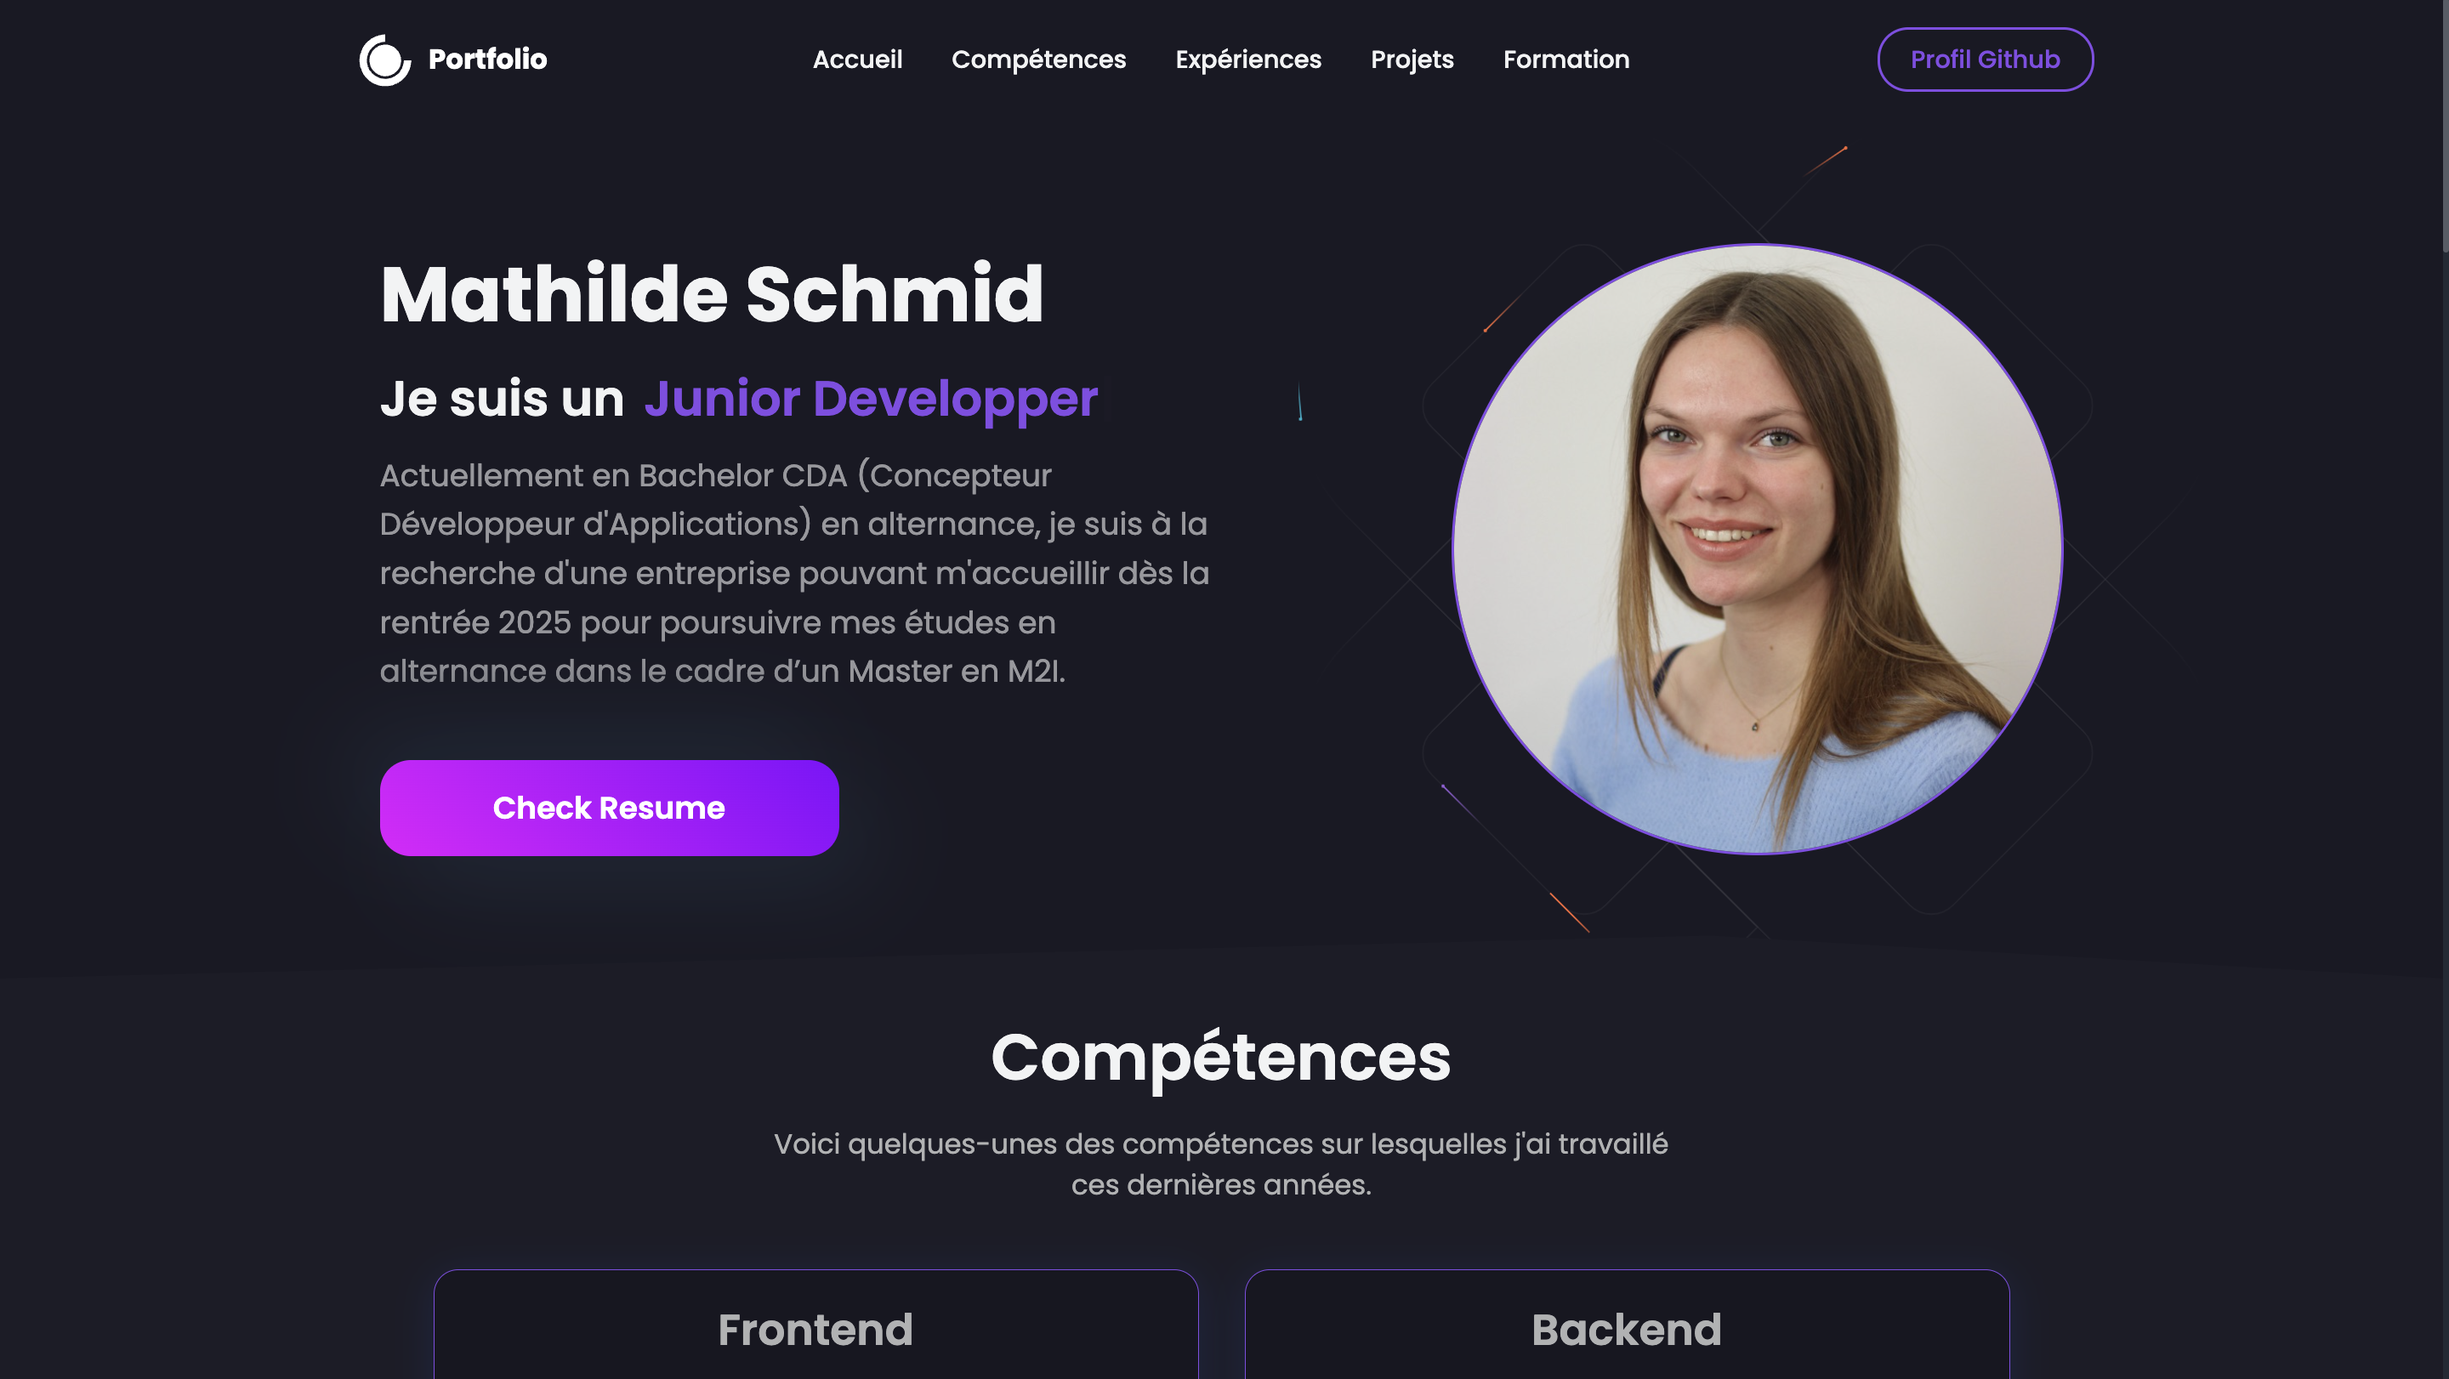
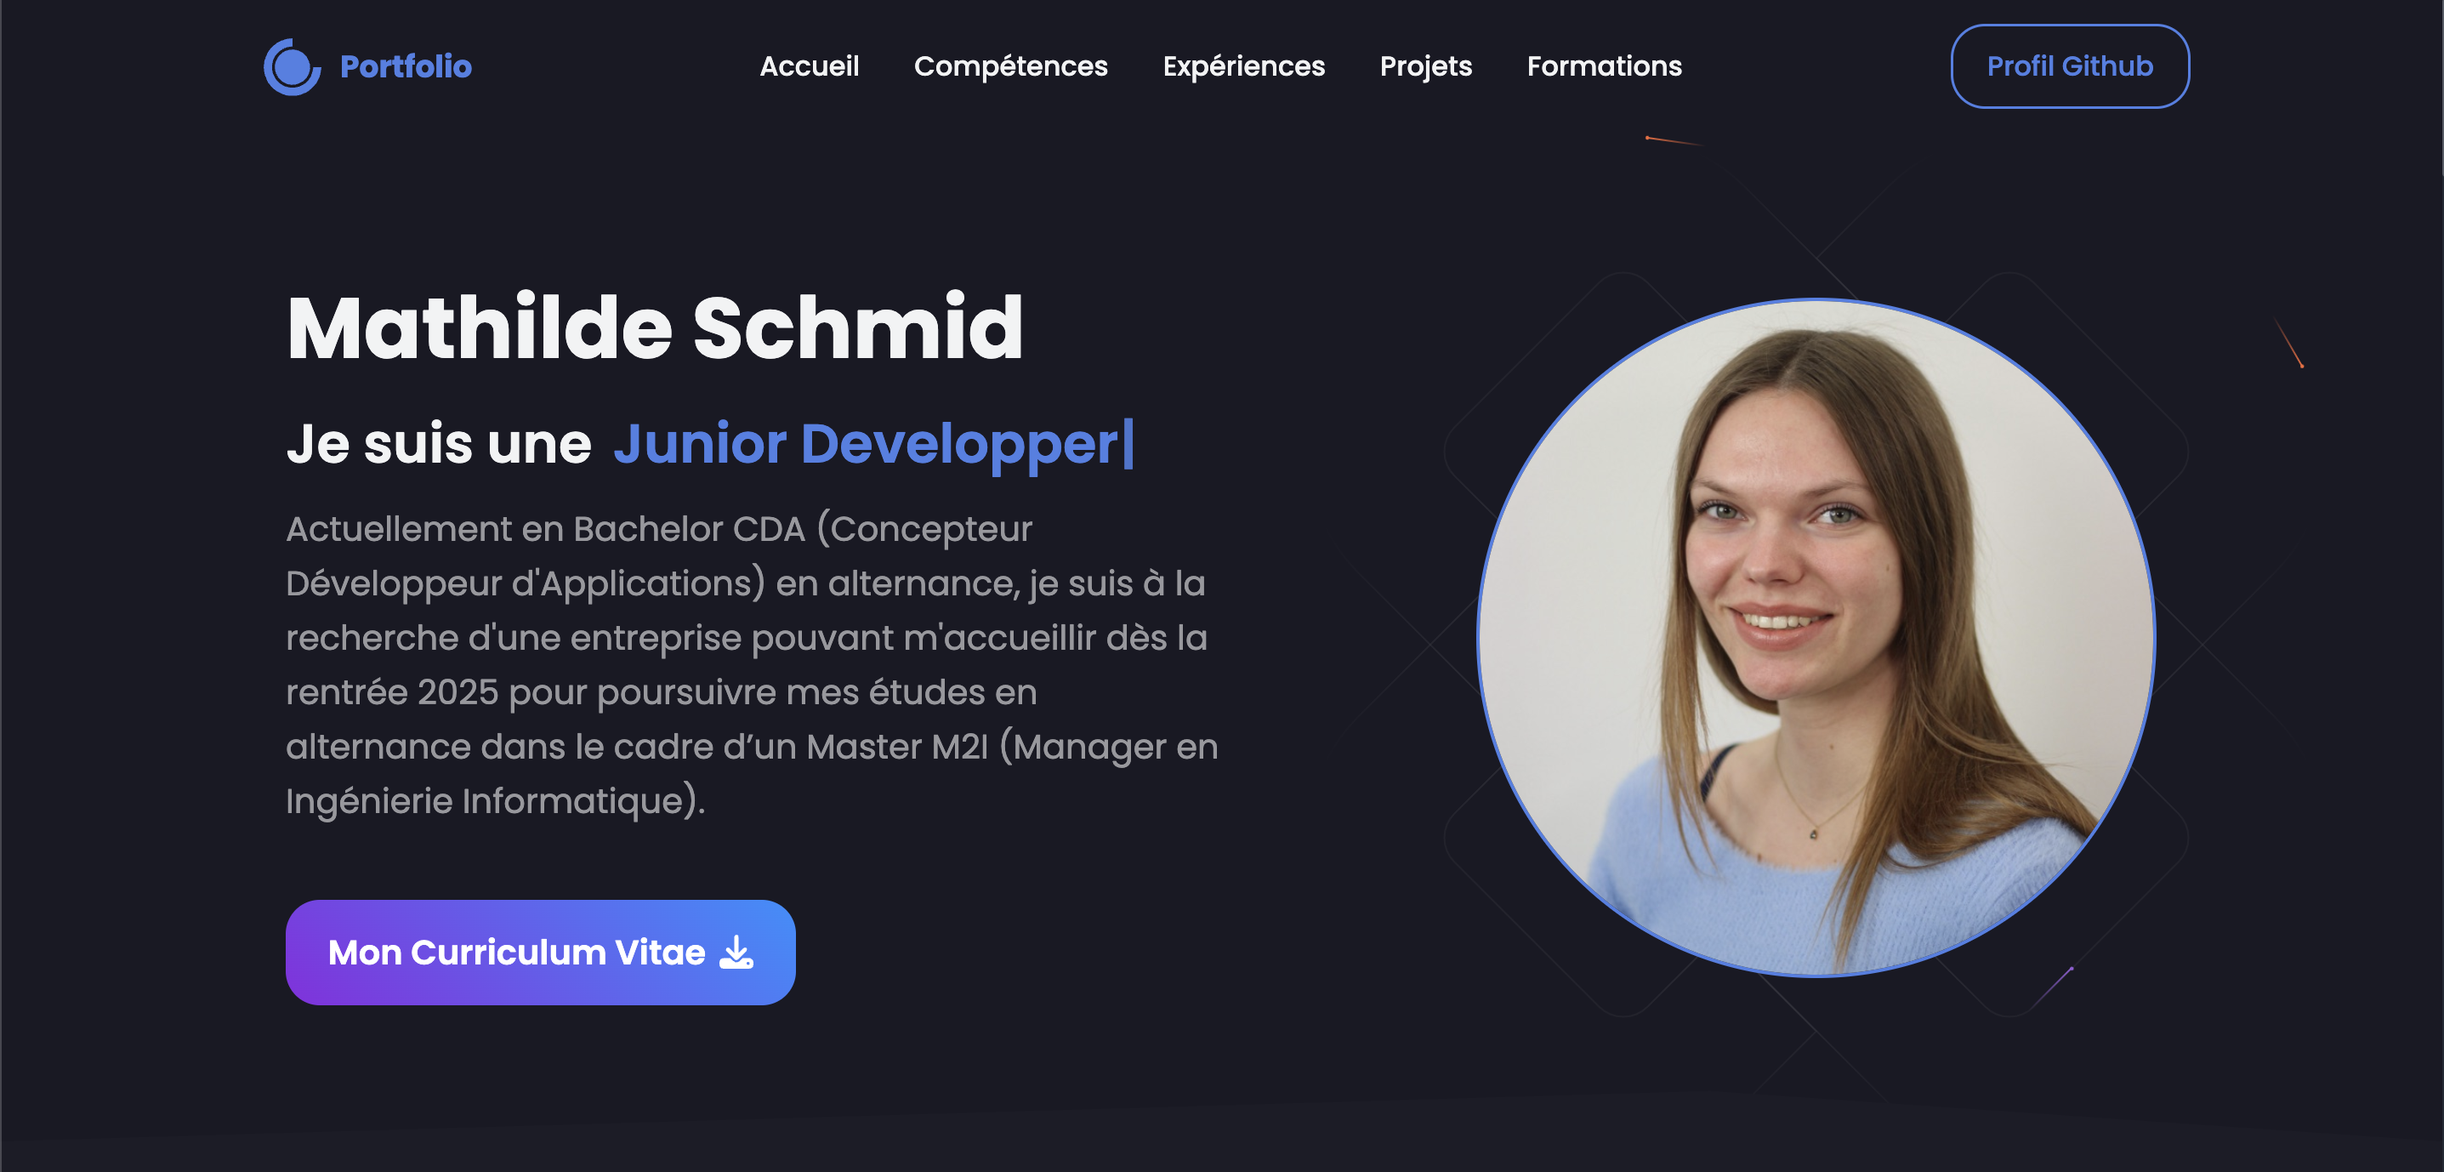
Finalisation Portfolio

diff --git a/src/data/constants.js b/src/data/constants.js
@@ -1,5 +1,7 @@
 import MiamzelleImage from "../components/images/Miam-Zelle-Recette.png";
 import PortfolioImage from "../components/images/Portfolio.png";
+import StradaStaImage from "../components/images/StradSTA.png";
+import ProjetCsharpImage from "../components/images/ProjetC#.png";
 
 export const Bio = {
   name: "Mathilde Schmid",
@@ -10,11 +12,10 @@ export const Bio = {
     "QA Tester",
   ],
   description:
-    // "I am a motivated and versatile individual, always eager to take on new challenges. With a passion for learning I am dedicated to delivering high-quality results. With a positive attitude and a growth mindset, I am ready to make a meaningful contribution and achieve great things.",
-    "Actuellement en Bachelor CDA (Concepteur Développeur d'Applications) en alternance, je suis à la recherche d'une entreprise pouvant m'accueillir dès la rentrée 2025 pour poursuivre mes études en alternance dans le cadre d’un Master en M2I.",
+    "Actuellement en Bachelor CDA (Concepteur Développeur d'Applications) en alternance, je suis à la recherche d'une entreprise pouvant m'accueillir dès la rentrée 2025 pour poursuivre mes études en alternance dans le cadre d’un Master M2I (Manager en Ingénierie Informatique).",
   github: "https://github.com/mAthilde43",
   resume: "mettre CV",
-  // linkedin: "https://www.linkedin.com/in/rishav-chanda-b89a791b3/",
+  // linkedin: "",
 };
 
 export const skills = [
@@ -31,11 +32,16 @@ export const skills = [
         image:
           "https://d33wubrfki0l68.cloudfront.net/0834d0215db51e91525a25acf97433051f280f2f/c30f5/img/redux.svg",
       },
-      // {
-      //   name: "Next Js",
-      //   image:
[1 lines of base64/hex data omitted]
-      // },
+      {
+        name: "C#",
+        image:
+          "https://upload.wikimedia.org/wikipedia/commons/thumb/b/bd/Logo_C_sharp.svg/1820px-Logo_C_sharp.svg.png",
+      },
+      {
+        name: "TypeScript",
+        image:
+          "https://upload.wikimedia.org/wikipedia/commons/thumb/4/4c/Typescript_logo_2020.svg/1200px-Typescript_logo_2020.svg.png",
+      },
       {
         name: "JavaScript",
         image:
@@ -105,11 +111,6 @@ export const skills = [
         image:
           "https://raw.githubusercontent.com/devicons/devicon/master/icons/docker/docker-original-wordmark.svg",
       },
-      // {
-      //   name: "Netlify",
-      //   image:
-      //     "https://seeklogo.com/images/N/netlify-logo-BD8F8A77E2-seeklogo.com.png",
-      // },
       {
         name: "VS Code",
         image: "https://chris-ayers.com/assets/images/vscode-logo.png",
@@ -126,7 +127,7 @@ export const skills = [
       {
         name: "WordPress",
         image:
-          "https://download.logo.wine/logo/WordPress.com/WordPress.com-Logo.wine.png",
+          "https://icones.pro/wp-content/uploads/2022/05/logo-wordpress.png",
       },
     ],
   },
@@ -142,7 +143,7 @@ export const experiences = [
     desc: [
       "Réalisation de tests sur l’application web et mobile pour assurer la qualité et la stabilité des fonctionnalités.",
       "Automatisation des tests en utilisant Cypress afin d’optimiser le processus de validation et de détecter rapidement les anomalies.",
-      "Modifications et améliorations du front-end, en ajustant l’interface utilisateur et en corrigeant les bugs pour une meilleure expérience utilisateur.",
+      "Modifications et améliorations du front-end, en ajustant l’interface utilisateur et en corrigeant les erreurs pour une meilleure expérience utilisateur.",
     ],
     skills: ["React JS", "JavaScript", "TypeScript", "Cypress"],
     doc: "",
@@ -181,14 +182,14 @@ export const experiences = [
   },
   {
     id: 2,
-    img: "https://scontent-cdg4-3.xx.fbcdn.net/v/t39.30808-6/448760001_966068848646695_8690179196462289170_n.jpg?_nc_cat=110&ccb=1-7&_nc_sid=6ee11a&_nc_ohc=OouSRYTCX6kQ7kNvgFMAT3T&_nc_zt=23&_nc_ht=scontent-cdg4-3.xx&_nc_gid=AQ8AnPGT_FChoAf_NLTVqyr&oh=00_AYDkpxSoWwhsg2-ZYuScwySV28CTS8TTBBPI31KjDyGESg&oe=679FCF66",
+    img: "https://encrypted-tbn0.gstatic.com/images?q=tbn:ANd9GcRuRO5-IfJ9uxgIMj55fejGvqQKwi22Bumxeg&s",
     role: "Animatrice",
     company: "Judo Club Quatzenheim",
     date: "Été 2021 - 2022 - 2023",
     desc: [
       "Encadrement d’enfants et d’adolescents",
       "Elaboration et mis en place d’ateliers",
-      "Partage et transmission de connaissance",
+      "Partage et transmission de connaissances",
     ],
   },
 ];
@@ -225,7 +226,6 @@ export const education = [
     degree: "Brevet des collèges",
     school: "Collège du Kochersberg, Truchtersheim",
     date: "2018 - 2019",
-    // desc: "",
   },
 ];
 
@@ -235,7 +235,7 @@ export const projects = [
     title: "Miam'Zelle Recette",
     date: "Oct 2024 - Jan 2025",
     description:
-      "Développé dans le cadre d'une formation CDA à la CCI Campus de Strasbourg, Miam'Zelle Recette est un un livre de recettes. \n L’objectif de ce projet était de créer une plateforme simple où les utilisateurs peuvent consulter des recettes, ajouter leurs propres recettes, enregistrer des recettes en favoris et rechercher des recettes.",
+      "Développé dans le cadre de ma formation CDA à la CCI Campus de Strasbourg, Miam'Zelle Recette est un un livre de recettes. \n L’objectif de ce projet était de créer une plateforme simple où les utilisateurs peuvent consulter, ajouter, enregistrer et rechercher des recettes.",
     image: MiamzelleImage,
     tags: ["React Js", "Node.js", "Express", "MySQL"],
     category: "web app",
@@ -255,22 +255,34 @@ export const projects = [
     webapp: "Pas encore en ligne",
   },
   {
-    id: 11,
-    title: "Projet C#",
+    id: 10,
+    title: "Strada STA",
     date: "Fev 2025",
-    description: "projet en cours à décrire",
-    image: "",
-    tags: ["C#"],
+    description:
+      "Développé pour une entreprise de terrassement, ce site vitrine a pour objectif de présenter de manière claire et accessible les services proposés. L'accent est mis sur une interface intuitive et une navigation fluide pour les utilisateurs.",
+    image: StradaStaImage,
+    tags: ["Wordpress"],
     category: "web app",
-    github: "",
-    webapp: "Pas encore en ligne",
+    webapp: "Bientôt disponible",
   },
+  // {
+  //   id: 11,
+  //   title: "Projet C# ",
+  //   date: "Mars 2025",
+  //   description:
+  //     "Dans le cadre de ma formation, nous devons réalisé un projet en C# .NET. Ce projet a pour objectif de mettre en pratique les concepts appris encours de formations.",
+  //   image: ProjetCsharpImage,
+  //   tags: ["C#"],
+  //   category: "web app",
+  //   // github: "",
+  //   webapp: "Projet local",
+  // },
 ];
 
-export const TimeLineData = [
-  { year: 2017, text: "Started my journey" },
-  { year: 2018, text: "Worked as a freelance developer" },
-  { year: 2019, text: "Founded JavaScript Mastery" },
-  { year: 2020, text: "Shared my projects with the world" },
-  { year: 2021, text: "Started my own platform" },
-];
+// export const TimeLineData = [
+//   { year: 2017, text: "Started my journey" },
+//   { year: 2018, text: "Worked as a freelance developer" },
+//   { year: 2019, text: "Founded JavaScript Mastery" },
+//   { year: 2020, text: "Shared my projects with the world" },
+//   { year: 2021, text: "Started my own platform" },
+// ];

diff --git a/src/components/HeroSection/index.js b/src/components/HeroSection/index.js
@@ -5,6 +5,8 @@ import Typewriter from "typewriter-effect";
 // import { Typewriter } from "react-simple-typewriter";
 import HeroImg from "../images/HeroImage.jpeg";
 import HeroBgAnimation from "../HeroBgAnimation";
+import { FontAwesomeIcon } from "@fortawesome/react-fontawesome";
+import { faDownload } from "@fortawesome/free-solid-svg-icons"; // Import de l'icône
 
 const HeroContainer = styled.div`
   background: ${({ theme }) => theme.card_light};
@@ -166,10 +168,9 @@ const ResumeButton = styled.a`
   font-size: 20px;
   font-weight: 600;
   transition: all 0.2s ease-in-out !important;
-  background: hsla(271, 100%, 50%, 1);
-  background: linear-gradient(225deg, hsla(271, 100%, 50%, 1) 0%, hsla(294, 100%, 50%, 1) 100%);
-  background: -moz-linear-gradient(225deg, hsla(271, 100%, 50%, 1) 0%, hsla(294, 100%, 50%, 1) 100%);
-  background: -webkit-linear-gradient(225deg, hsla(271, 100%, 50%, 1) 0%, hsla(294, 100%, 50%, 1) 100%);
+  background: linear-gradient(225deg, rgba(30, 144, 255, 1) 0%, rgba(138, 43, 226, 1) 100%); /* bleu foncé et violet */
+  background: -moz-linear-gradient(225deg, rgba(30, 144, 255, 1) 0%, rgba(138, 43, 226, 1) 100%);
+  background: -webkit-linear-gradient(225deg, rgb(28 120 210) 0%, rgba(138, 43, 226, 1) 100%)
   box-shadow:  20px 20px 60px #1F2634,
   -20px -20px 60px #1F2634;
   &:hover {
@@ -182,7 +183,6 @@ const ResumeButton = styled.a`
     padding: 12px 0;
     font-size: 18px;
   } 
-
 `;
 
 const Image = styled.img`
@@ -231,6 +231,10 @@ const Hero = () => {
             <SubTitle>{Bio.description}</SubTitle>
             <ResumeButton href={Bio.resume} target="blank">
               Mon Curriculum Vitae
+              <FontAwesomeIcon
+                icon={faDownload}
+                style={{ marginLeft: "8px" }}
+              />
             </ResumeButton>
           </HeroLeftContainer>
           <HeroRightContainer>

diff --git a/src/components/Contact/index.js b/src/components/Contact/index.js
@@ -40,17 +40,6 @@ const Title = styled.div`
   }
 `;
 
-const Desc = styled.div`
-  font-size: 18px;
-  text-align: center;
-  max-width: 600px;
-  color: ${({ theme }) => theme.text_secondary};
-  @media (max-width: 768px) {
-    margin-top: 12px;
-    font-size: 16px;
-  }
-`;
-
 const ContactInfo = styled.div`
   display: flex;
   flex-direction: column;
@@ -98,7 +87,6 @@ const Contact = () => {
     <Container>
       <Wrapper>
         <Title>Contact</Title>
-        <Desc>N'hésitez pas à me contacter pour toute question !</Desc>
         <ContactInfo>
           <InfoItem>
             📞 Téléphone : <a href="tel:+330786242680">+33 7 86 24 26 80</a>{" "}
@@ -108,7 +96,14 @@ const Contact = () => {
             <a href="mathilde.schmid@orange.fr">mathilde.schmid@orange.fr</a>{" "}
           </InfoItem>
           <InfoItem>
-            📍 Adresse : 25 rue de la Krutenau, 67000 Strasbourg{" "}
+            📍 Adresse :{" "}
+            <a
+              href="https://www.google.com/maps/search/?api=1&query=25+rue+de+la+Krutenau,+67000+Strasbourg"
+              target="_blank"
+              rel="noopener noreferrer"
+            >
+              25 rue de la Krutenau, 67000 Strasbourg
+            </a>
           </InfoItem>
           <InfoItem>
             🔗 LinkedIn :{" "}

diff --git a/src/App.js b/src/App.js
@@ -20,13 +20,15 @@ const Body = styled.div`
 const Wrapper = styled.div`
   background: linear-gradient(
       38.73deg,
-      rgba(204, 0, 187, 0.15) 0%,
-      rgba(201, 32, 184, 0) 50%
+      rgba(0, 70, 209, 0.15) 0%,
+      /* bleu clair avec transparence */ rgba(0, 70, 209, 0) 50%
+        /* bleu foncé avec transparence */
     ),
     linear-gradient(
       141.27deg,
-      rgba(0, 70, 209, 0) 50%,
-      rgba(0, 70, 209, 0.15) 100%
+      rgba(201, 32, 184, 0) 50%,
+      /* violet clair avec transparence */ rgba(204, 0, 187, 0.15) 100%
+        /* violet foncé avec transparence */
     );
   width: 100%;
   clip-path: polygon(0 0, 100% 0, 100% 100%, 30% 98%, 0 100%);
@@ -49,8 +51,7 @@ function App() {
           </Wrapper>
           <Wrapper>
             <Contact />
-          </Wrapper>
-          <Wrapper>
+
             <Footer />
           </Wrapper>
         </Body>

diff --git a/public/index.html b/public/index.html
@@ -2,7 +2,7 @@
 <html lang="en">
   <head>
     <meta charset="utf-8" />
-    <link rel="icon" href="%PUBLIC_URL%/favicon.ico" />
+    <link rel="icon" type="image/png" href="%PUBLIC_URL%/Logo.png" />
     <meta name="viewport" content="width=device-width, initial-scale=1" />
     <meta name="theme-color" content="#000000" />
     <meta
@@ -24,7 +24,7 @@
       work correctly both with client-side routing and a non-root public URL.
       Learn how to configure a non-root public URL by running `npm run build`.
     -->
-    <title>React App</title>
+    <title>Mathilde Schmmid | Portfolio</title>
   </head>
   <body>
     <noscript>You need to enable JavaScript to run this app.</noscript>

diff --git a/src/components/Cards/EducationCard.js b/src/components/Cards/EducationCard.js
@@ -63,7 +63,7 @@ const Card = styled.div`
     overflow: visible;
     -webkit-line-clamp: unset;
   }
-  border: 0.1px solid #854ce6;
+  border: 0.1px solid #4c80e6;
 `;
 
 const Top = styled.div`
@@ -116,15 +116,6 @@ const Date = styled.div`
     font-size: 10px;
   }
 `;
-
-// const Grade = styled.div`
-//   font-size: 14px;
-//   font-weight: 500;
-//   color: ${({ theme }) => theme.text_secondary + 99};
-//   @media only screen and (max-width: 768px) {
-//     font-size: 12px;
-//   }
-// `;
 
 const EducationCard = ({ education }) => {
   return (

diff --git a/src/components/Experience/index.js b/src/components/Experience/index.js
@@ -84,7 +84,7 @@ const index = () => {
                 <TimelineSeparator>
                   <TimelineDot variant="outlined" color="secondary" />
                   {index !== experiences.length - 1 && (
-                    <TimelineConnector style={{ background: "#854CE6" }} />
+                    <TimelineConnector style={{ background: "#4c80e6" }} />
                   )}
                 </TimelineSeparator>
                 <TimelineContent sx={{ py: "12px", px: 2 }}>

diff --git a/src/components/Education/index.js b/src/components/Education/index.js
@@ -90,7 +90,7 @@ const index = () => {
                 <TimelineSeparator>
                   <TimelineDot variant="outlined" color="secondary" />
                   {index !== experiences.length && (
-                    <TimelineConnector style={{ background: "#854CE6" }} />
+                    <TimelineConnector style={{ background: "#4c80e6" }} />
                   )}
                 </TimelineSeparator>
               </TimelineItem>

diff --git a/src/utils/Themes.js b/src/utils/Themes.js
@@ -1,12 +1,12 @@
 export const darkTheme = {
   bg: "#1C1C27",
   bgLight: "#1C1E27",
-  primary: "#854CE6",
+  primary: "#4c80e6",
   text_primary: "#F2F3F4",
   text_secondary: "#b1b2b3",
   card: "#171721",
   card_light: "#191924",
-  button: "#854CE6",
+  button: "#4c80e6",
   white: "#FFFFFF",
   black: "#000000",
 };

diff --git a/src/components/Skills/index.js b/src/components/Skills/index.js
@@ -59,7 +59,7 @@ const Skill = styled.div`
   width: 100%;
   max-width: 500px;
   background: ${({ theme }) => theme.card};
-  border: 0.1px solid #854ce6;
+  border: 0.1px solid #4c80e6;
   box-shadow: rgba(23, 92, 230, 0.15) 0px 4px 24px;
   border-radius: 16px;
   padding: 18px 36px;

diff --git a/src/components/Navbar/index.js b/src/components/Navbar/index.js
@@ -219,7 +219,7 @@ const Navbar = () => {
             style={{
               display: "flex",
               alignItems: "center",
-              color: "white",
+              color: "#4c80e6",
               marginBottom: "20",
               cursor: "pointer",
             }}

diff --git a/src/components/ProjetModal/index.js b/src/components/ProjetModal/index.js
@@ -59,7 +59,7 @@ const Image = styled.img`
   width: auto;
   height: 300px;
   object-fit: cover;
-  border: 1.5px solid #854ce6;
+  border: 1.5px solid #4c80e6;
   border-radius: 20px;
 
   @media (max-width: 768px) {
